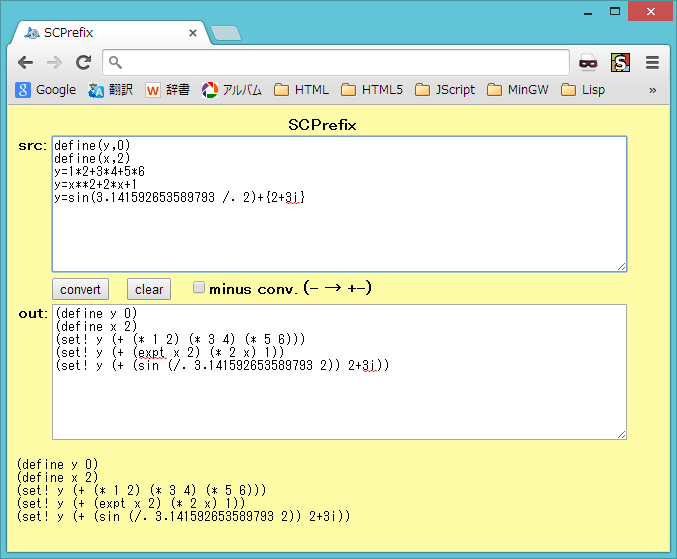
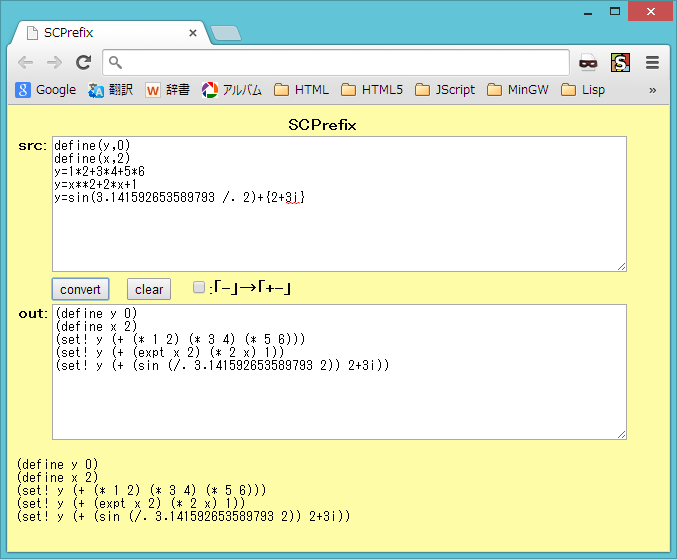
src chg v1.06

diff --git a/scprefix.html b/scprefix.html
@@ -5,7 +5,7 @@
 <title>SCPrefix</title>
 <!--
     scprefix.html
-    2015-1-18 v1.05
+    2015-1-19 v1.06
 -->
 <style type="text/css">
 <!--
@@ -514,13 +514,28 @@ var SCPrefix;
         code_pos1 = code.length;
         // debugpos1 = i;
         tok = token[i].word;
-        // ***** 論理NOT,ビットNOT,負符号のとき *****
-        if (tok == "!" || tok == "~" || tok == "-") {
+        // ***** 論理NOT,ビットNOTのとき *****
+        if (tok == "!" || tok == "~") {
             i++;
             code_push("(", debugpos1, i);
             code_push(opfunc(tok), debugpos1, i);
             i = c_factor(i, tok_end);
             code_push(")", debugpos1, i);
+            return i;
+        }
+        // ***** 負符号のとき *****
+        if (tok == "-") {
+            i++;
+            code_push("(", debugpos1, i);
+            code_push(opfunc(tok), debugpos1, i);
+            i = c_factor(i, tok_end);
+            code_push(")", debugpos1, i);
+            // (最適化処理 : 負符号が連続したときは削除する)
+            if (code_pos1 <= code.length + 6 &&
+                code[code_pos1 + 2].word == "(" && code[code_pos1 + 3].word == "-") {
+                code.splice(code_pos1, 4);
+                code.splice(code.length - 2, 2);
+            }
             return i;
         }
         // ***** 正符号のとき *****
@@ -941,7 +956,7 @@ var SCPrefix;
 <th></th>
 <th align="left"><input type="submit" value="convert"> &nbsp;
 <input type="button" value="clear" onclick="clear_button();"> &nbsp;
-<input type="checkbox" id="minus_conv">minus conv. (- → +-)</th>
+<input type="checkbox" id="minus_conv">:「-」→「+-」</th>
 <th></th>
 </tr><tr>
 <th align="left" valign="top">out:</th>

diff --git a/Readme.md b/Readme.md
@@ -17,7 +17,7 @@
   結果は、outのテキストボックスに表示されます。  
   (その下にもデバッグ用に同じものが表示されます)
 
-- また、minus conv. のチェックボックスにチェックを入れると、  
+- また、「-」→「+-」のチェックボックスにチェックを入れると、  
   演算子の - を +- に変換することで、多項式の変換結果を若干見やすくします。
 
 - clearボタンをクリックすると、入出力をすべてクリアします。
@@ -119,6 +119,7 @@
   minus conv. のチェックボックス追加
 - 2015-1-18 v1.04 行番号(デバッグ用)の計算処理修正
 - 2015-1-18 v1.05 一部処理見直し
+- 2016-1-19 v1.06 負符号が連続したときは削除する。チェックボックス表示変更
 
 
 (2015-1-19)
